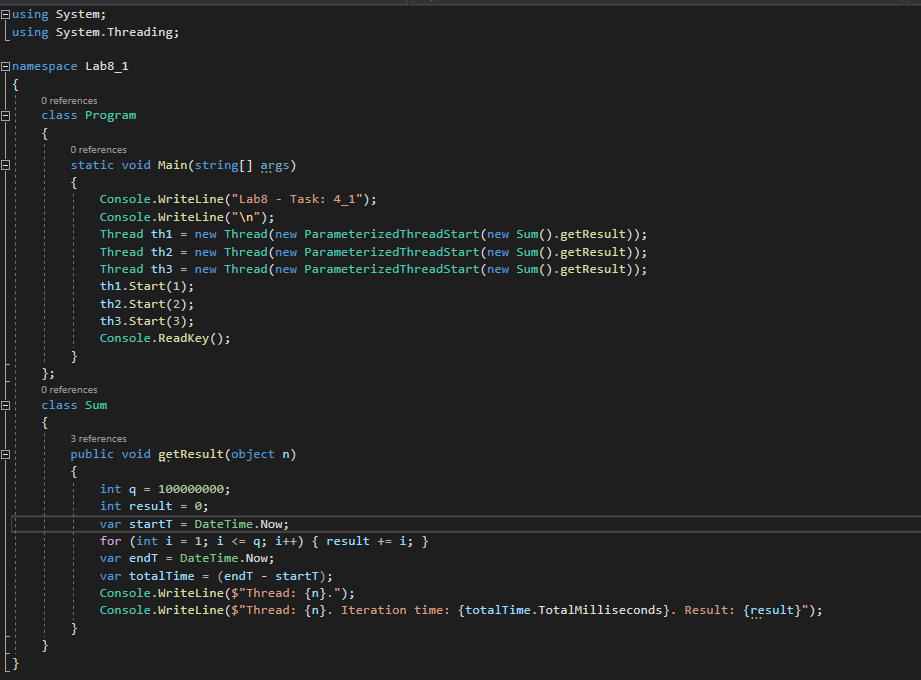
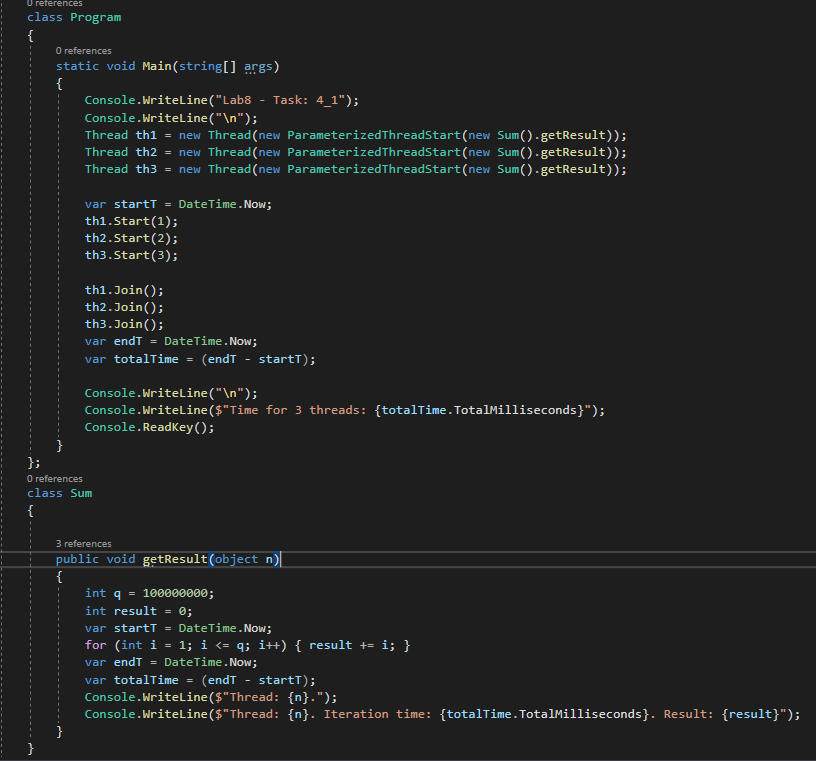
Lab8 done

Changed region(s): [[0.0, 0.0, 1.0, 1.0]]

diff --git a/labs/lab8.html b/labs/lab8.html
@@ -140,7 +140,9 @@
         <div style="display: none" id="chapter5">
             <h1>Висновки</h1>
             <p>Основною метою лабораторної роботи було вивчення та реалізація роботи з потоками,
-                мьютексами та семафорами.</p>
+                мьютексами та семафорами. Виконано завдання 4_1, 4_2, 4_3 та 4_4 та дотримано умови цих завдань.
+                Робота всіх трьох потоків у завданні 4_1 була завершена за 293 мілісекунди. Потоки виконувалися паралельно
+                Найдовше виконувався потік №3 244 мілісекунди.</p>
         </div>
     </div>
 </div>
